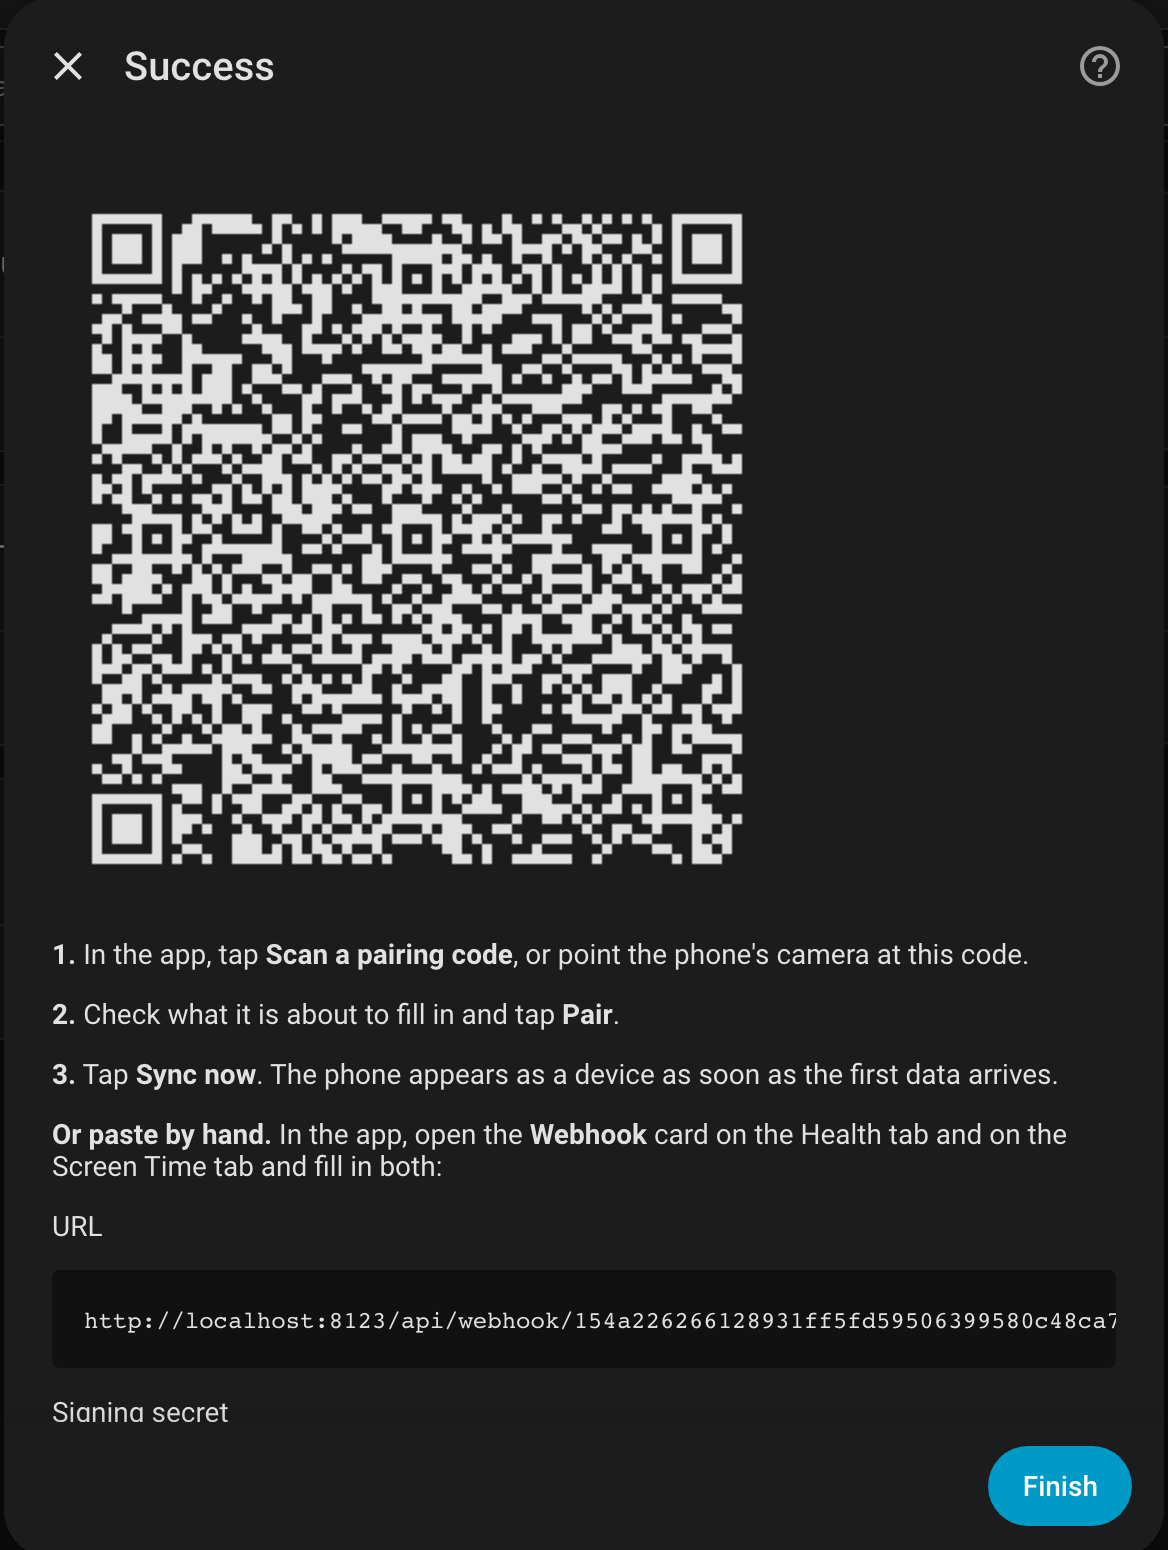
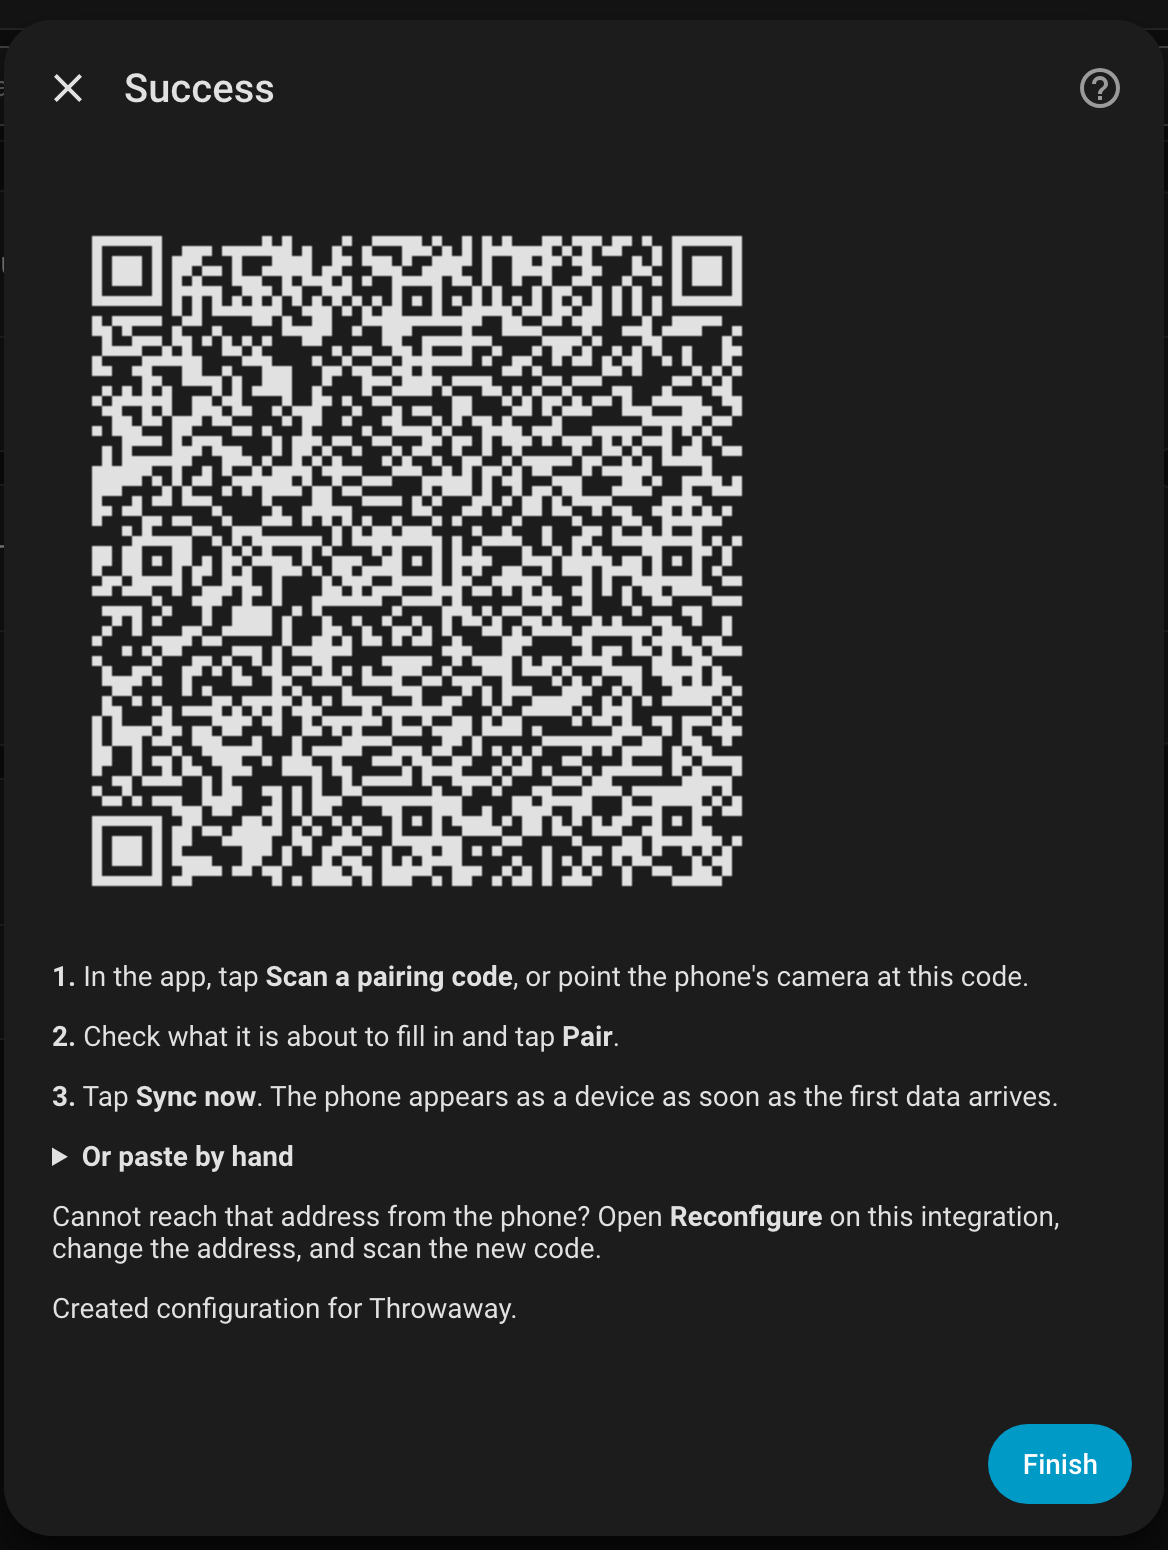
docs: Changelog for 0.5.2

diff --git a/CHANGELOG.md b/CHANGELOG.md
@@ -4,6 +4,14 @@ All notable changes to this integration are documented here. The format follows
 [Keep a Changelog](https://keepachangelog.com/en/1.1.0/), and the versions follow
 [Semantic Versioning](https://semver.org/spec/v2.0.0.html).
 
+## [0.5.2] - 2026-09-16
+
+### Changed
+
+- "Or paste by hand" in the pairing dialog is folded away until you open it, so the
+  dialog is the code and three steps, and the URL and the secret are there for
+  whoever cannot scan.
+
 ## [0.5.1] - 2026-09-16
 
 ### Changed
@@ -106,6 +114,7 @@ First release. Installable from HACS as a custom repository.
 - The app also publishes to MQTT with Discovery, using the same sensor names. Pick
   one of the two, or you get two devices holding the same numbers.
 
+[0.5.2]: https://github.com/owen282000/life-dashboard-ha/releases/tag/0.5.2
 [0.5.1]: https://github.com/owen282000/life-dashboard-ha/releases/tag/0.5.1
 [0.5.0]: https://github.com/owen282000/life-dashboard-ha/releases/tag/0.5.0
 [0.4.0]: https://github.com/owen282000/life-dashboard-ha/releases/tag/0.4.0
